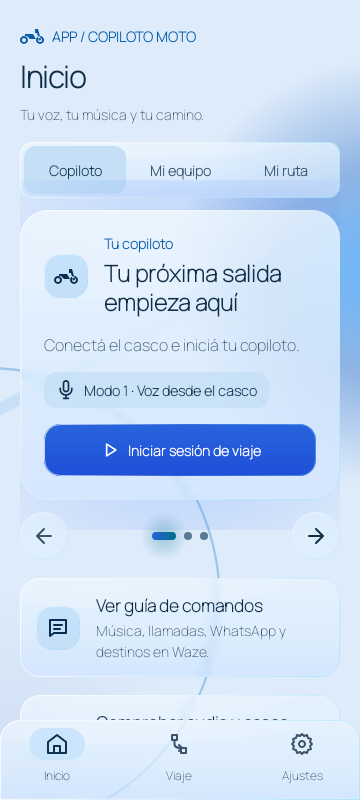
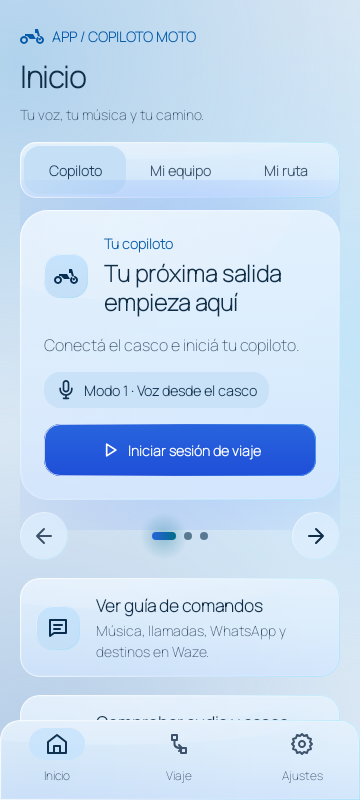
Document rendered blue backdrop and verified field APK

diff --git a/docs/UI_TORMENTA_MEDIANOCHE_V2.md b/docs/UI_TORMENTA_MEDIANOCHE_V2.md
@@ -14,17 +14,18 @@ El carrusel conserva sus tres pestañas y el gesto; añade flechas de 48 dp e in
 
 ## Evidencia y límites
 
-Los renders del host Compose en Android JVM de la **primera entrega v2** se guardan en [capturas previas al ajuste actual](images/glass-v2/after/): Inicio, Viaje y Ajustes, en claro y oscuro, al 100 % y 200 % de fuente. En particular, [Ajustes oscuro antes del ajuste](images/glass-v2/after/settings-night-100.png) muestra la esfera que se retiró. Las [capturas de la versión anterior a v2](images/glass-v2/before/) permiten comparar el material original. Para esta revisión se incluyen [previsualización del fondo aislado](images/glass-v2/backdrop-preview.png) calculada con los mismos colores y radios del código y [previsualización del icono](images/glass-v2/icon-vector-preview.png); no son capturas de la app. La [muestra de la burbuja](images/burbuja_agua_vector.png) procede del vector de producción y está marcada como previsualización; el panel nativo completo no se pudo ver renderizado como ventana flotante real aquí. Faltan capturas de la revisión actual con la UI completa.
+Los renders nuevos del host Compose en Android JVM se guardan en [capturas de esta revisión](images/glass-v2/after/): Inicio, Viaje y Ajustes, en claro y oscuro, al 100 % y 200 % de fuente. [Inicio](images/glass-v2/before-refinement/home-night-100.png) y [Ajustes](images/glass-v2/before-refinement/settings-night-100.png) oscuros de la primera entrega v2 permiten ver la esfera que se retiró. Las [capturas anteriores a v2](images/glass-v2/before/) permiten comparar el material original. También se incluyen [previsualización del fondo aislado](images/glass-v2/backdrop-preview.png) calculada con los mismos colores y radios del código y [previsualización del icono](images/glass-v2/icon-vector-preview.png); ambas son previsualizaciones, no capturas de la app. La [muestra de la burbuja](images/burbuja_agua_vector.png) procede del vector de producción; el panel nativo completo no se pudo ver renderizado como ventana flotante real aquí.
 
 | Vista | Antes | Después |
 | --- | --- | --- |
-| Inicio oscuro | [captura](images/glass-v2/before/home-night.png) | [primera entrega v2](images/glass-v2/after/home-night-100.png) |
-| Inicio claro | [captura](images/glass-v2/before/home-day.png) | [primera entrega v2](images/glass-v2/after/home-day-100.png) |
-| Ajustes claro | [captura](images/glass-v2/before/settings-day.png) | [primera entrega v2](images/glass-v2/after/settings-day-100.png) |
-| Viaje con fuente grande | [captura](images/glass-v2/before/trip-large-font.png) | [primera entrega v2 al 200 %](images/glass-v2/after/trip-night-200.png) |
+| Inicio oscuro | [primera entrega v2](images/glass-v2/before-refinement/home-night-100.png) | [fondo restaurado](images/glass-v2/after/home-night-100.png) |
+| Ajustes oscuro | [primera entrega v2](images/glass-v2/before-refinement/settings-night-100.png) | [fondo restaurado](images/glass-v2/after/settings-night-100.png) |
+| Inicio claro | [antes de v2](images/glass-v2/before/home-day.png) | [captura actual](images/glass-v2/after/home-day-100.png) |
+| Ajustes claro | [antes de v2](images/glass-v2/before/settings-day.png) | [captura actual](images/glass-v2/after/settings-day-100.png) |
+| Viaje con fuente grande | [antes de v2](images/glass-v2/before/trip-large-font.png) | [captura actual al 200 %](images/glass-v2/after/trip-night-200.png) |
 | Burbuja vectorial | [antes](images/glass-v2/before/bubble-vector.png) | [después](images/burbuja_agua_vector.png) |
 
-En la primera entrega v2, `SettingsContrastTest`, `SettingsNavigationUiTest`, `HomeDashboardUiTest` y las capturas comprobaron colores, navegación y render. La suite debug completa aprobó 236 casos, omitió uno y no tuvo fallos. `assembleDebug` y `assembleFieldTest` terminaron correctamente entonces, con OpenWakeWord 0.1.2 real construido localmente desde su etiqueta de GitHub. Para el ajuste actual, ambos XML del icono se analizaron sin error y `aapt2 compile` aceptó el vector. Gradle no pudo arrancar en este entorno porque el aislamiento impide abrir el socket que usa para los bloqueos de archivos; faltan la compilación, los tests y un APK nuevo de esta revisión. El APK anterior con código 9 **no** contiene este fondo ni el icono vectorial. El proyecto mantiene la dependencia habitual de JitPack; la configuración temporal de Maven local se retiró.
+En la primera entrega v2, la suite debug completa aprobó 236 casos, omitió uno y no tuvo fallos. Para este ajuste se repitieron `SettingsContrastTest` (4), `SettingsNavigationUiTest` (15), `HomeDashboardUiTest` (6) y `VisualGlassCaptureTest` (4): **29 aprobadas, 0 fallos**. `assembleDebug` y `assembleFieldTest` terminaron correctamente. El APK nuevo Campo tiene paquete `com.gust4av033.appcopilotomoto.pruebas`, código 10, los modelos ONNX de OpenWakeWord y la misma huella de firma que el APK Campo anterior de código 9. La dependencia real OpenWakeWord 0.1.2 se resolvió desde la compilación local de su etiqueta de GitHub, ya que JitPack respondió 403 detrás del proxy; la configuración temporal de Maven local se retiró del proyecto. El icono vectorial se analizó y compiló sin errores. La suite completa no se repitió porque esta revisión solo cambia el fondo y el icono.
 
 Pendiente en el Samsung: comprobar scroll de Inicio y Ajustes en ambos temas, fuente al 200 %, TalkBack, brillo de sol, burbuja al frente de Waze y recuperación de audio. Si el desplazamiento muestra tirones, cambiar los paneles a `GlassMode.LITE` y volver a medir antes de mantener FULL. El lector experimental de Waze y el proveedor Google Maps siguen con su prueba física separada.
 
